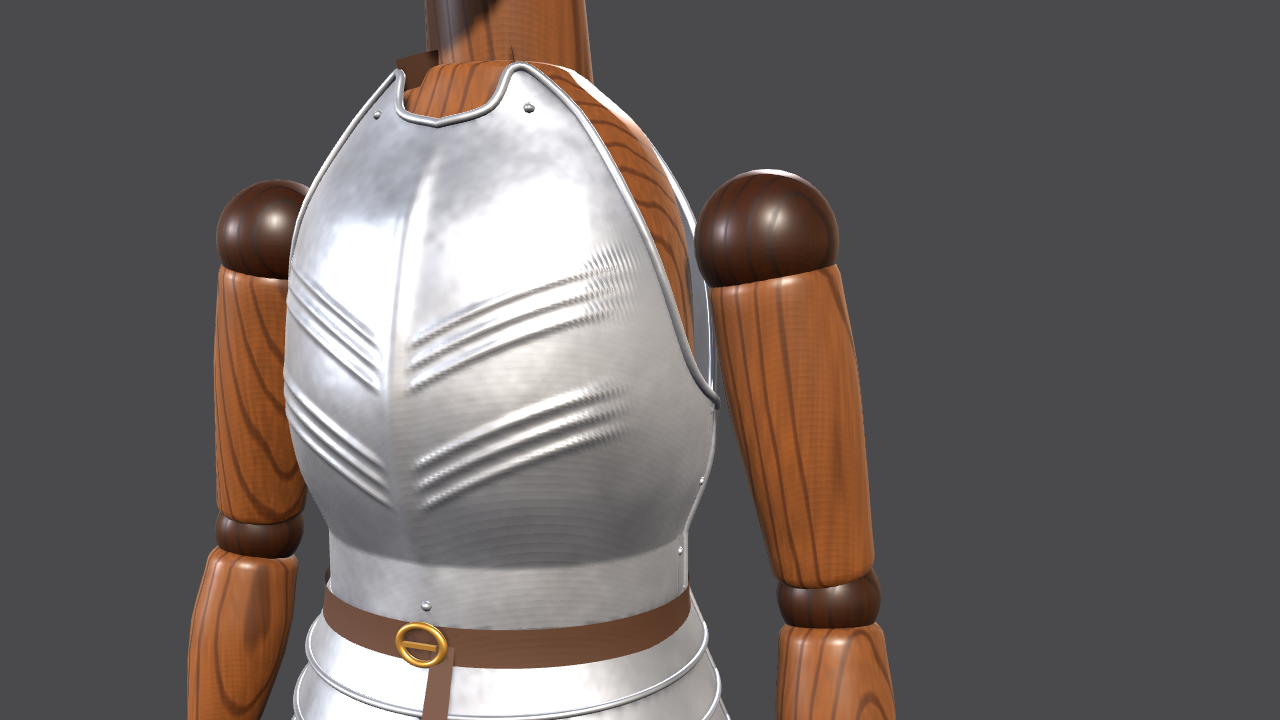
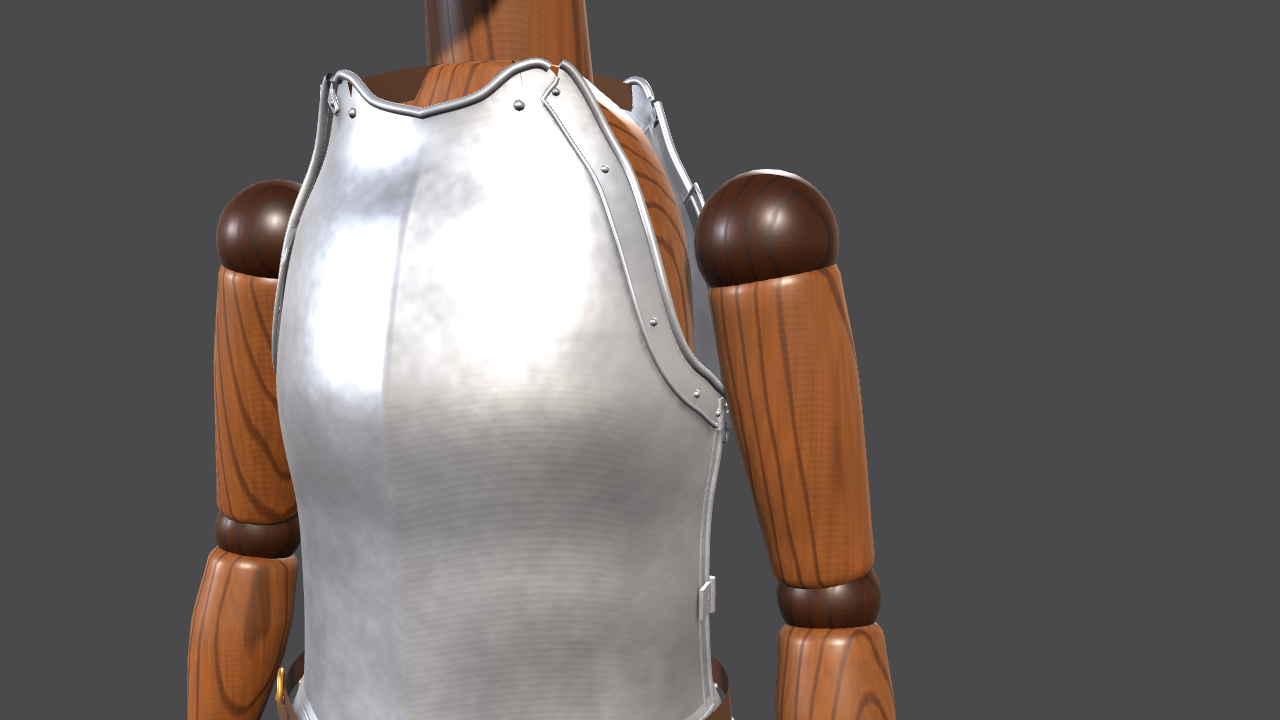
v0.11: cuirass rebuilt as a munitions breast and back
Plain breastplate with medial crease, wide shallow neck, riveted armhole
gussets, pointed lower edge, side clasp and hinges; backplate with V
yoke, spine ridge and gussets; flared fauld lame all round; belt on the
seam with side buckle. Barrel-shaped sides that still clear the body.
Cuirass tab: gussets toggle, 0-4 lames.

Claude-Session: https://claude.ai/code/session_01WeZQLGxhK27PqRdm928ucn

Changed region(s): [[0.1875, 0.0611, 0.5938, 1.0]]

diff --git a/README.md b/README.md
@@ -10,15 +10,16 @@ Design full suits of plate armor and sculpt your own helmet. Built in Godot 4.4 
 
 ![Proportions](docs/proportions.png)
 
-## v0.10 – Gothic cuirass
+## v0.11 – cuirass (munitions breast and back)
 
-A cuirass built to fit the wooden mannequin, split into two sections like the original armour:
+Rebuilt from a new reference: a plain breast and back fitted to the wooden mannequin, split into two sections.
 
-- **Mid section:** fluted **breastplate** (central ridge, two sets of chevron flutes sweeping down from the armholes, scooped neck, deep armholes, rolled edges, rivets) and a plain **backplate**, joined by leather shoulder straps.
-- **Bottom section:** the **fauld**, overlapping lames that each step a little further out and curve up toward the hips; the bottom lame dips at the centre front.
-- A leather **belt** with a brass buckle marks the division between the two.
+- **Mid section, breastplate:** plain plate with a sharp centre crease, wide shallow neckline, deep armholes with riveted gusset plates, lower edge pointed at the centre front; a clasp on the right side and hinges on the left.
+- **Mid section, backplate:** V-shaped yoke line across the shoulders, spine ridge, armhole gussets cut toward the spine, higher shoulders.
+- **Bottom section:** the fauld, a flared lame all the way round below the plates.
+- **Belt** on the seam between the two, with a side buckle and loose tail; leather shoulder straps join breast and back.
 
-Everything is sized from `measurements.json` (chest, waist and hip width/depth, armpit and neck heights) with padding for the arming doublet, and hangs off the mannequin's Chest and Pelvis joints. A test checks the torso sits inside the plates and the arms stay clear. New **Cuirass** tab: show/hide each piece, fluting on/off, 1 to 7 fauld lames. Source: `scripts/pieces/cuirass.gd`.
+The sides run straight from chest to hip (no waist nip), but the plates always clear the body: their shape is a smooth maximum of a barrel profile and the mannequin's measurements plus padding. Cuirass tab: show/hide each piece, armhole gussets on/off, 0 to 4 fauld lames. Source: `scripts/pieces/cuirass.gd`.
 
 ![Cuirass](docs/cuirass.png)
 
